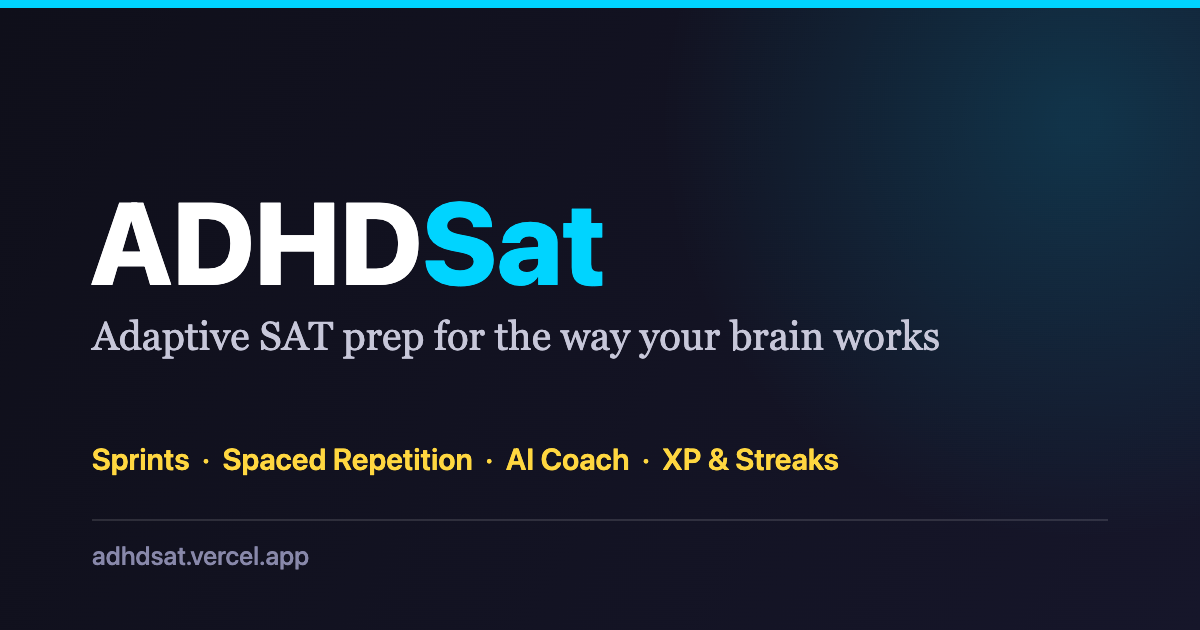
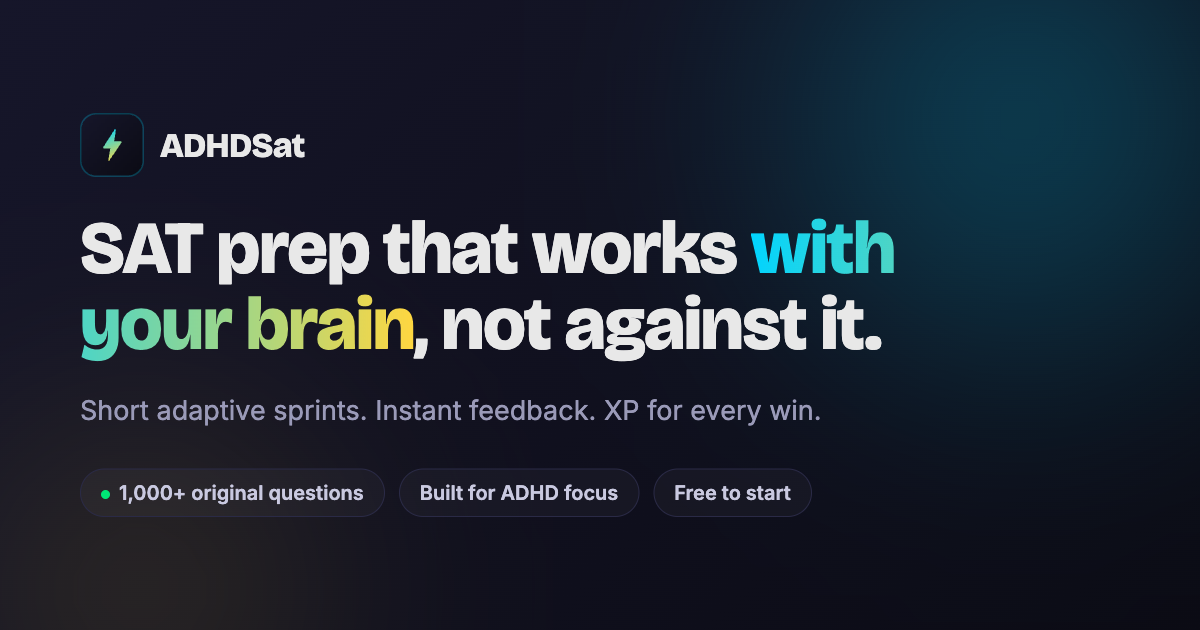
polish(brand): on-brand OG social card + theme-adaptive browser chrome
- Regenerate og-image.png: dark gradient + cyan/gold mesh, bolt logo,
  gradient headline matching the landing, feature pills. Replaces old card.
- color-scheme now 'light dark'; theme-color meta adapts to OS light/dark so
  the mobile browser chrome matches the active theme.

Claude-Session: https://claude.ai/code/session_01J7zSKz79HaKWFsYHft4Pyv

diff --git a/index.html b/index.html
@@ -12,8 +12,9 @@
 
     <title>ADHDSat: Adaptive SAT Prep for the Way Your Brain Works</title>
     <meta name="description" content="ADHDSat is an SAT prep tool built for ADHD brains: short adaptive sprints, instant feedback, spaced repetition, XP and streaks, and an AI coach. Small wins, visible progress, low friction to start." />
-    <meta name="color-scheme" content="dark" />
-    <meta name="theme-color" content="#0f0f1a" />
+    <meta name="color-scheme" content="light dark" />
+    <meta name="theme-color" content="#0f0f1a" media="(prefers-color-scheme: dark)" />
+    <meta name="theme-color" content="#f7f9fc" media="(prefers-color-scheme: light)" />
 
     <!-- PWA: installable to home screen -->
     <link rel="manifest" href="/manifest.webmanifest" />